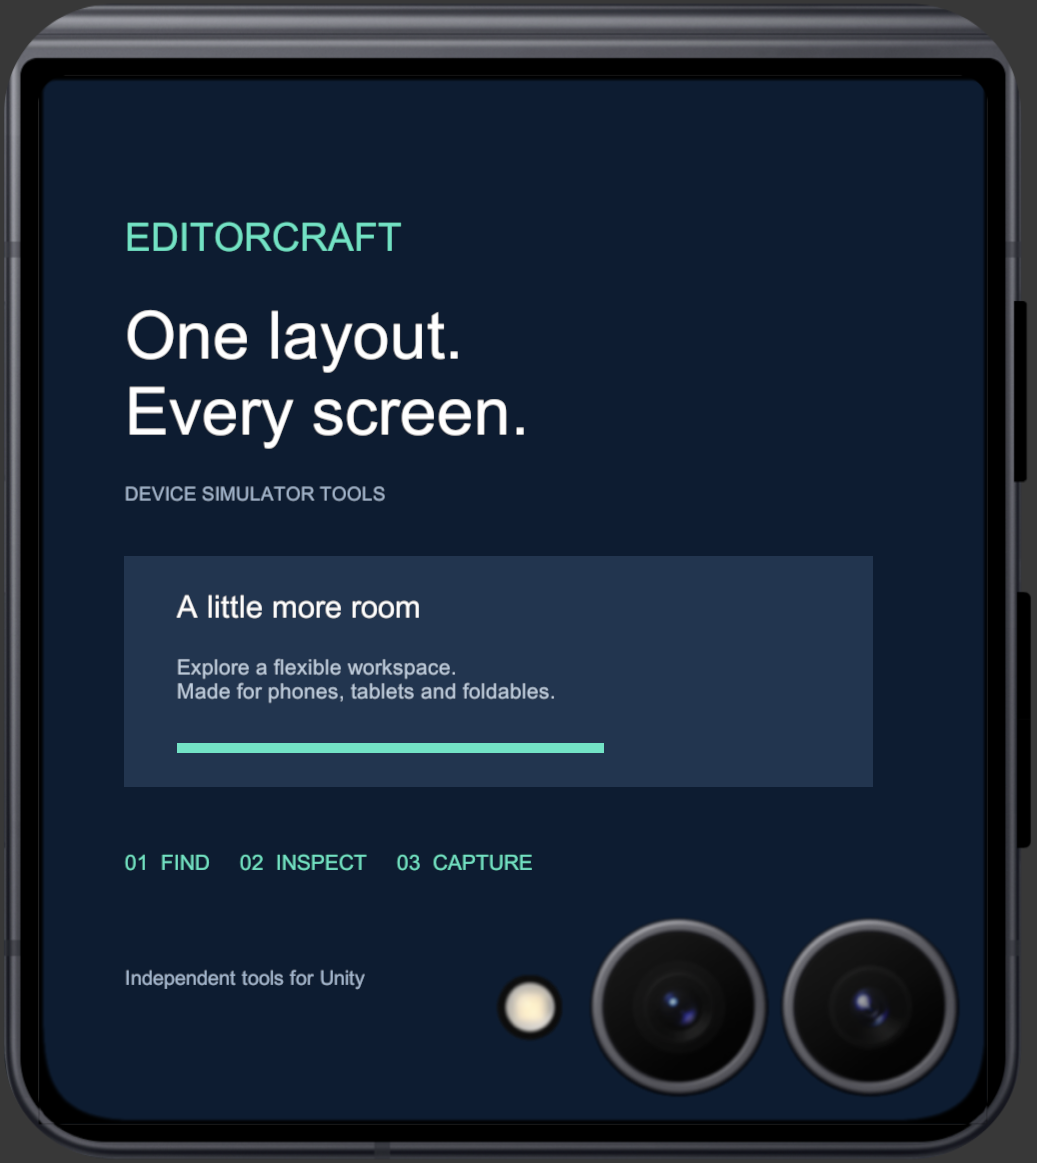
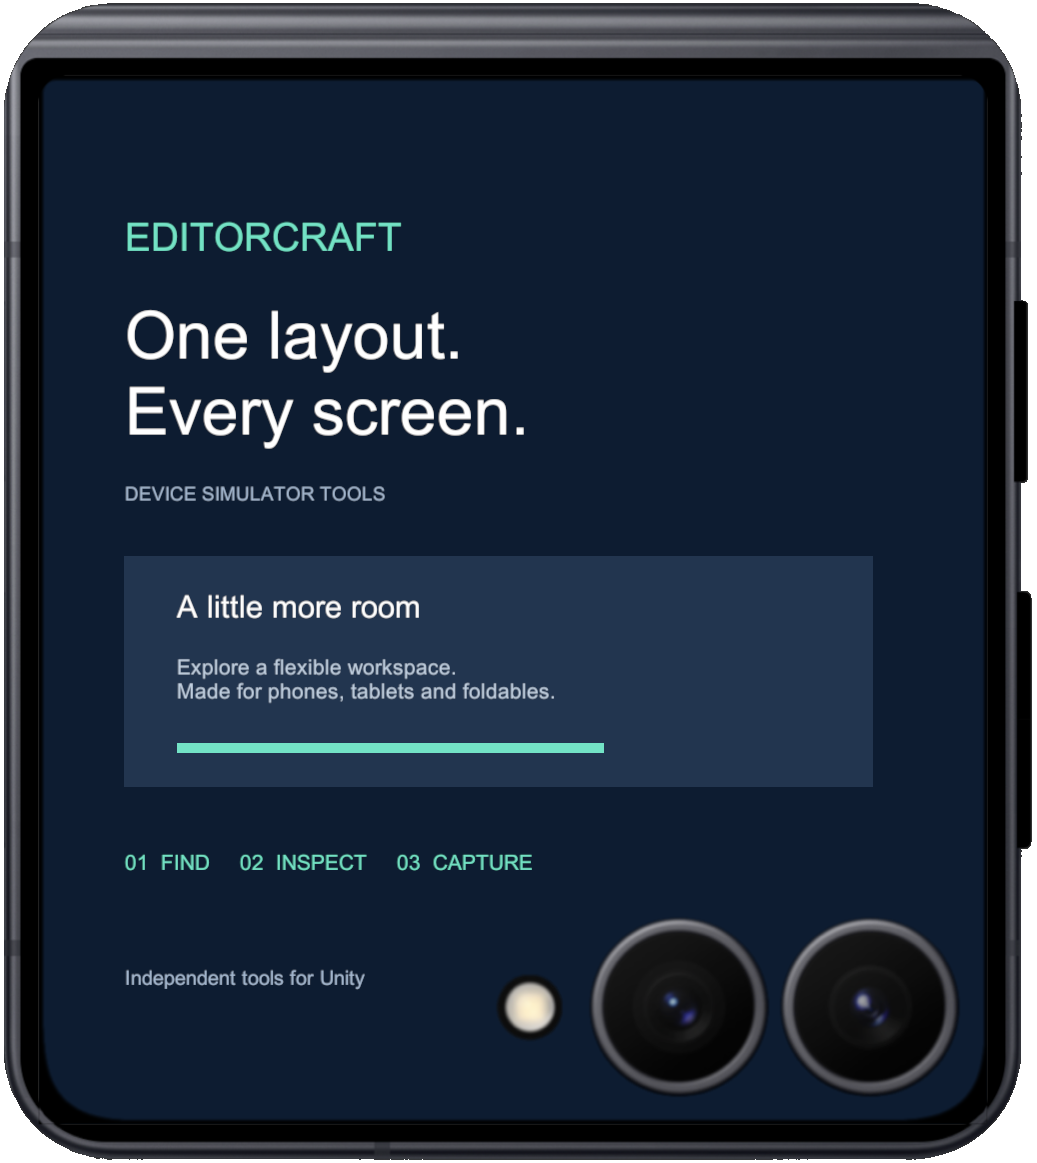
Fix exterior transparency in framed captures and showcase

Changed region(s): [[0.0, 0.0, 1.0, 1.0]]

diff --git a/Editor/SimulatorTestTools.cs b/Editor/SimulatorTestTools.cs
@@ -120,6 +120,10 @@ namespace DeviceSimulatorTools.Editor
                 {
                     Graphics.Blit(overlay, tmp); RenderTexture.active = tmp; frame.ReadPixels(new Rect(0, 0, cw, ch), 0, 0); frame.Apply();
                     var colors = frame.GetPixels32(); var pixels = clean.GetPixels32(); var output = new Color32[colors.Length];
+                    // Our preview overlays use opaque neutral backing to prevent framebuffer
+                    // leakage. Remove only boundary-connected backing in exported PNGs.
+                    var exterior = AssetDatabase.GetAssetPath(overlay).StartsWith("Packages/com.daghandemirci.device-simulator-tools/", StringComparison.Ordinal)
+                        ? ExteriorBacking(colors, cw, ch) : null;
                     for (int y = 0; y < ch; y++) for (int x = 0; x < cw; x++)
                     {
                         var color = colors[y * cw + x];
@@ -129,6 +133,7 @@ namespace DeviceSimulatorTools.Editor
                             Color under = pixels[p.y * width + p.x]; Color over = color;
                             color = Color.Lerp(under, new Color(over.r, over.g, over.b, 1), over.a);
                         }
+                        if (exterior != null && exterior[y * cw + x]) color = new Color32(0, 0, 0, 0);
                         var q = Rotate(x, y, cw, ch, orientation); output[q.y * result.width + q.x] = color;
                     }
                     result.SetPixels32(output); result.Apply(); return result;
@@ -137,6 +142,32 @@ namespace DeviceSimulatorTools.Editor
                 finally { RenderTexture.active = old; RenderTexture.ReleaseTemporary(tmp); UnityEngine.Object.DestroyImmediate(frame); }
             }
             finally { UnityEngine.Object.DestroyImmediate(clean); }
+        }
+        // Never chroma-key the composed screenshot: UI and enclosed hardware may
+        // legitimately contain the same gray. Walk the overlay from its perimeter.
+        internal static bool[] ExteriorBacking(Color32[] colors, int width, int height)
+        {
+            var exterior = new bool[colors.Length];
+            var pending = new Queue<int>();
+            void Visit(int index)
+            {
+                if (exterior[index]) return;
+                var c = colors[index];
+                if (c.a < 253 || Math.Abs(c.r - 56) > 2 || Math.Abs(c.g - 56) > 2 || Math.Abs(c.b - 56) > 2) return;
+                exterior[index] = true;
+                pending.Enqueue(index);
+            }
+            for (int x = 0; x < width; x++) { Visit(x); Visit((height - 1) * width + x); }
+            for (int y = 0; y < height; y++) { Visit(y * width); Visit(y * width + width - 1); }
+            while (pending.Count > 0)
+            {
+                int i = pending.Dequeue(), x = i % width, y = i / width;
+                if (x > 0) Visit(i - 1);
+                if (x + 1 < width) Visit(i + 1);
+                if (y > 0) Visit(i - width);
+                if (y + 1 < height) Visit(i + width);
+            }
+            return exterior;
         }
         static Vector2Int Rotate(int x, int y, int w, int h, ScreenOrientation orientation) => orientation switch
         {

diff --git a/Documentation~/SHOWCASE.md b/Documentation~/SHOWCASE.md
@@ -2,7 +2,8 @@
 
 Captured on 2026-10-25 in Unity 6000.6.5f1 with the package framed PNG exporter.
 The original neutral UI was rendered in a temporary additive scene; no unrelated
-application content was used. Full-resolution PNGs are retained without retouching.
+application content was used. Full-resolution screen and device pixels are preserved. The exterior gray preview
+backing was removed using the exporter’s boundary-connected transparency mask.
 These are profile simulations, not physical-device measurements.
 
 ### iPhone Duo

diff --git a/CHANGELOG.md b/CHANGELOG.md
@@ -1,5 +1,10 @@
 # Changelog
 
+## Unreleased
+
+- Framed PNG exports now remove the package overlay’s exterior preview backing,
+  preserving enclosed gray pixels and keeping Simulator preview rendering intact.
+
 ## 0.1.0
 
 Initial standalone UPM package: device catalog, filtered picker and favorites, paired
